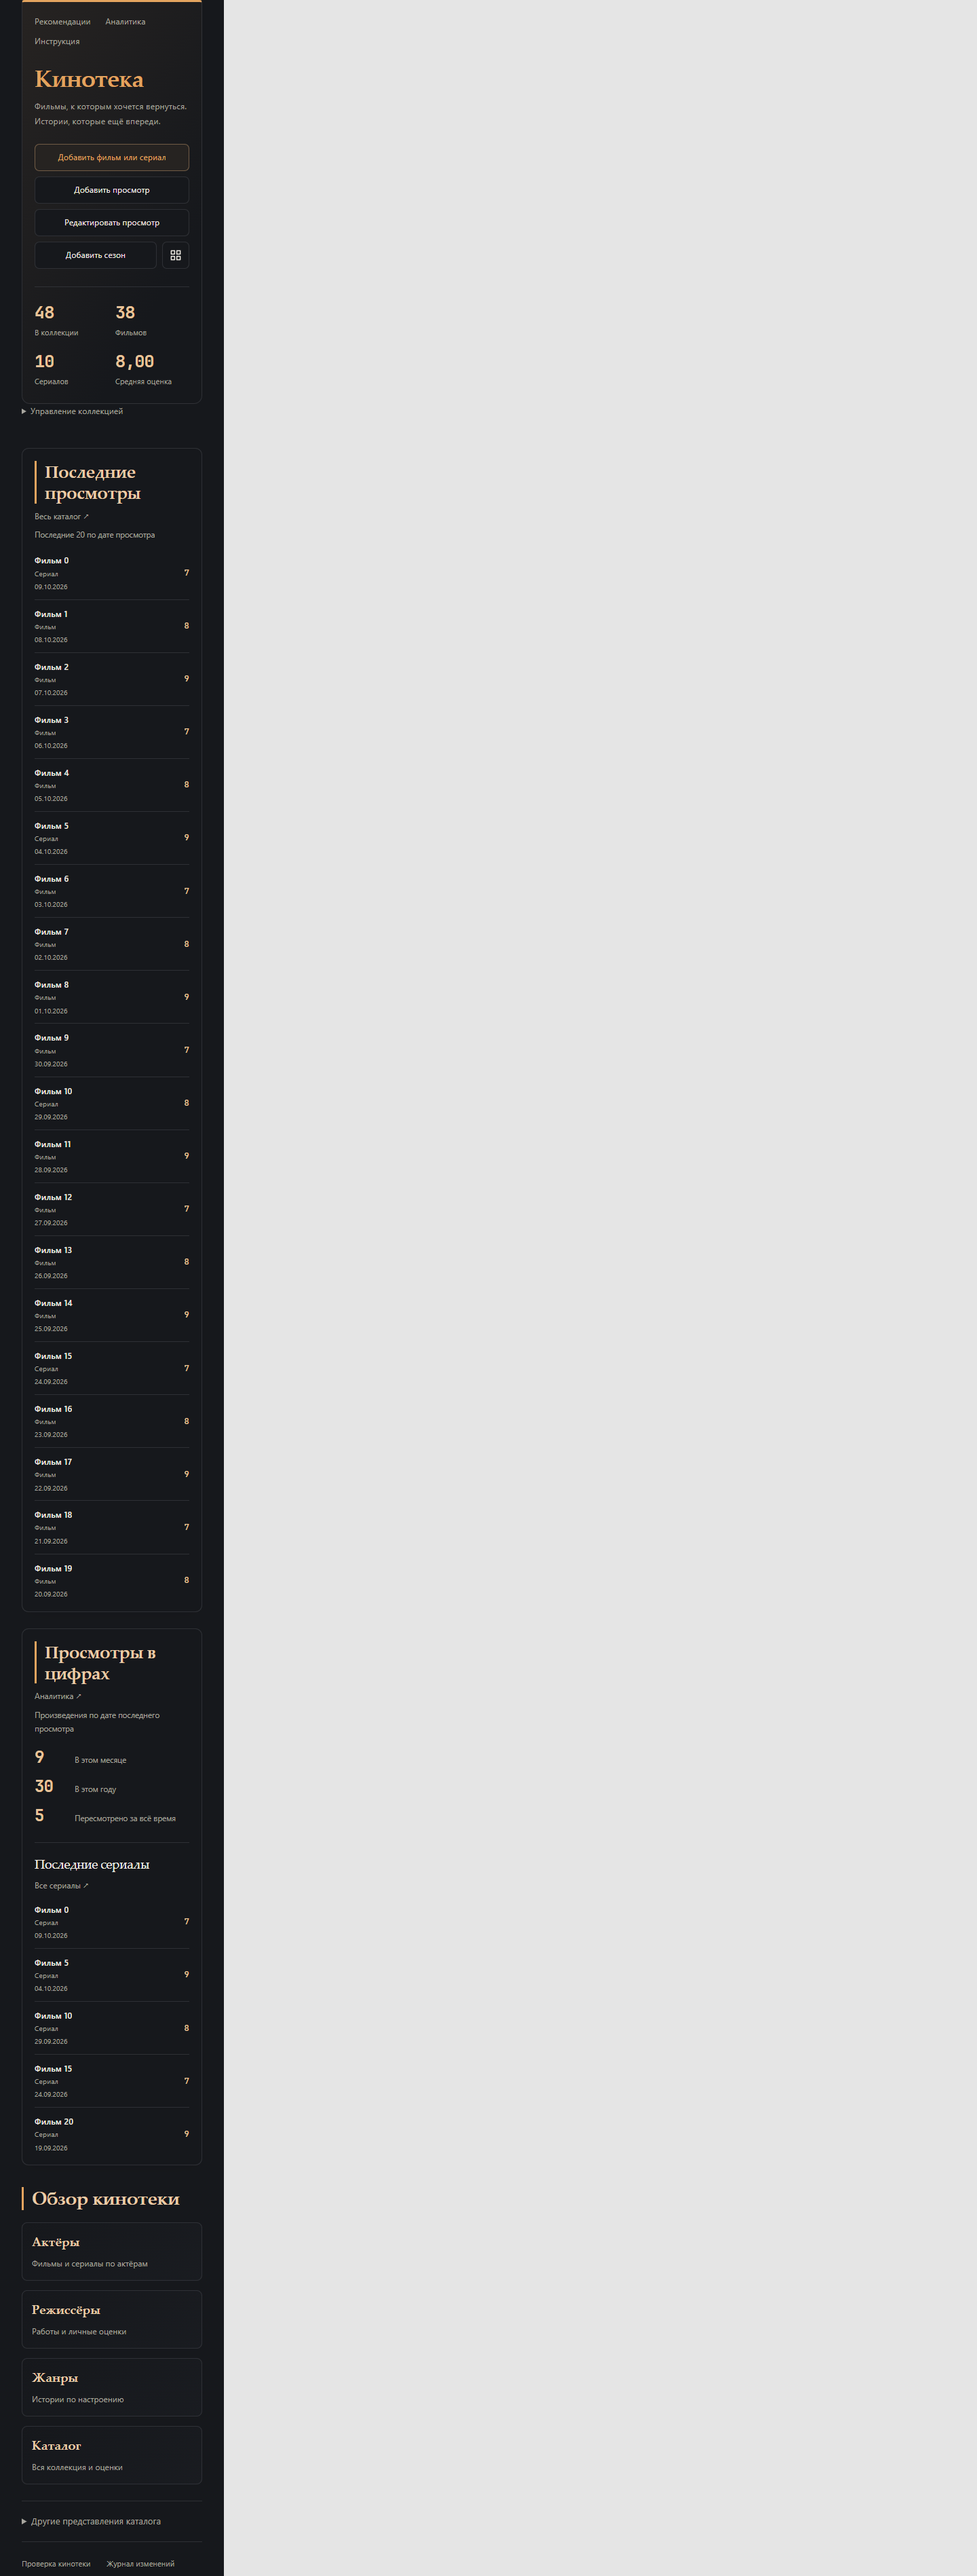
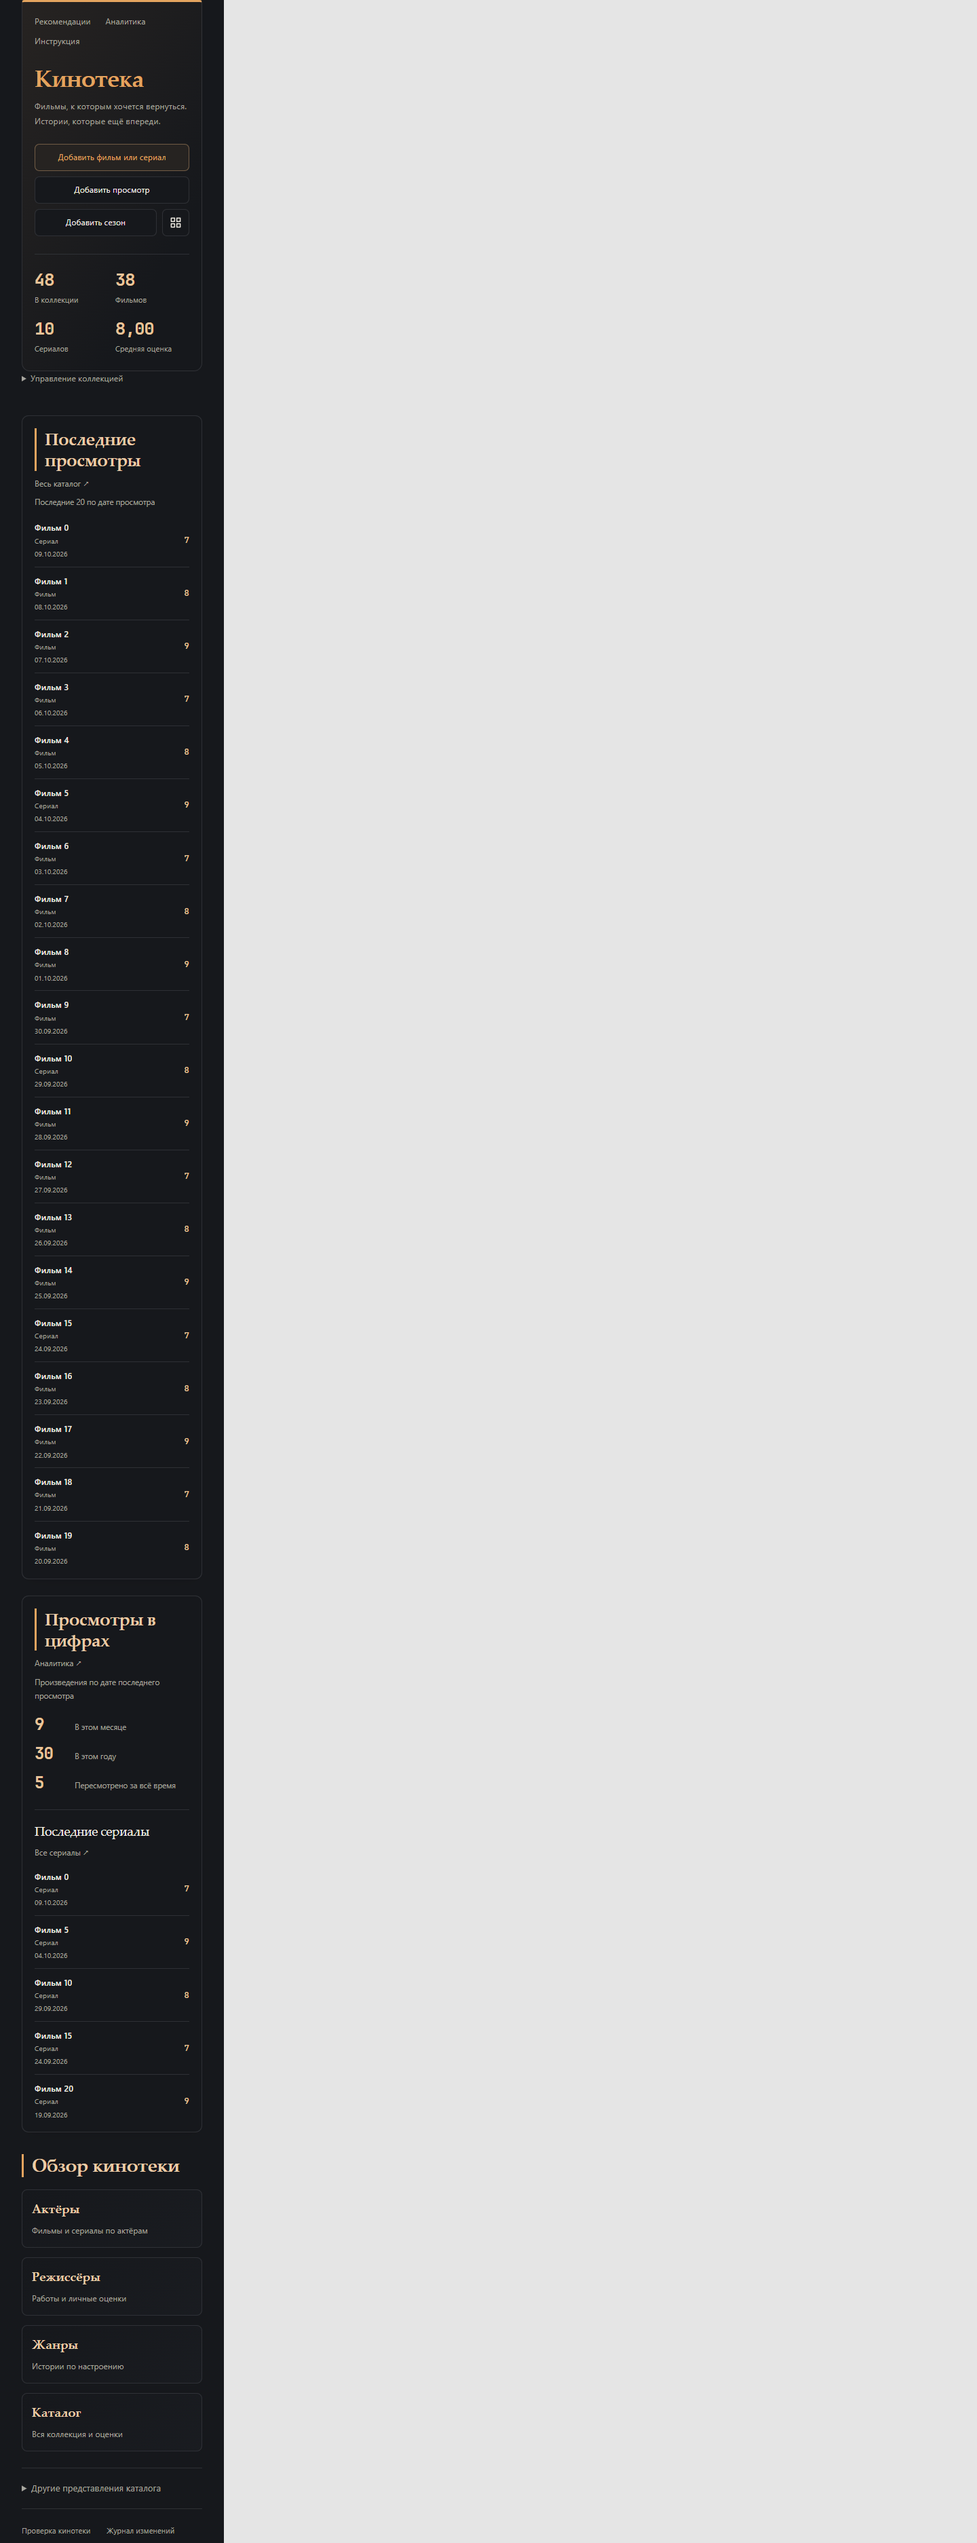
vault backup: 2026-10-09 22:13:24

Changed region(s): [[0.0312, 0.0312, 0.1875, 0.968]]

diff --git a/Кино/_system/kino_home.js b/Кино/_system/kino_home.js
@@ -145,9 +145,8 @@ module.exports = async ({ dv, app, obsidian = {} }) => {
         const identity = el(masthead, 'div', 'kino-home-identity');
         const heading = el(identity, 'div', 'kino-home-heading');
         el(heading, 'h1', 'kino-home-title', 'Кинотека');
-        el(heading, 'p', 'kino-home-subtitle', 'Фильмы, к которым хочется вернуться. Истории, которые ещё впереди.');
         const actions = el(identity, 'div', 'kino-home-actions');
-        for (const [text, choice, primary] of [['Добавить фильм или сериал', 'movie_imdb', true], ['Добавить просмотр', 'Добавить просмотр'], ['Редактировать просмотр', 'Редактировать просмотр'], ['Добавить сезон', 'Добавить сезон']]) command(actions, text, choice, 'kino-home-action' + (primary ? ' is-primary' : ''));
+        for (const [text, choice, primary] of [['Добавить фильм или сериал', 'movie_imdb', true], ['Добавить просмотр', 'Добавить просмотр'], ['Добавить сезон', 'Добавить сезон']]) command(actions, text, choice, 'kino-home-action' + (primary ? ' is-primary' : ''));
         const catalogue = internal(actions, 'Открыть каталог', 'Кино/_Кино.base#Карточки', 'kino-home-action is-icon');
         catalogue.setAttribute('aria-label', 'Открыть каталог'); catalogue.title = 'Открыть каталог';
         const icon = doc.createElementNS('http://www.w3.org/2000/svg', 'svg');
@@ -164,13 +163,13 @@ module.exports = async ({ dv, app, obsidian = {} }) => {
         }
         const management = el(root, 'details', 'kino-home-management'); el(management, 'summary', '', 'Управление коллекцией');
         const editActions = el(management, 'div', 'kino-home-actions');
-        for (const [text, choice] of [['Редактировать сезон', 'Редактировать сезон'], ['Пересобрать карточку', 'Пересобрать карточку'], ['Изменить франшизу', 'Франшиза']]) command(editActions, text, choice, 'kino-home-action');
+        for (const [text, choice] of [['Редактировать просмотр', 'Редактировать просмотр'], ['Редактировать сезон', 'Редактировать сезон'], ['Пересобрать карточку', 'Пересобрать карточку'], ['Изменить франшизу', 'Франшиза']]) command(editActions, text, choice, 'kino-home-action');
         function panel(title, cls, label, target) {
             const box = el(root, 'section', `kino-home-panel ${cls}`), head = el(box, 'div', 'kino-home-panel-head');
             el(head, 'h2', '', title); if (label) internal(head, label, target, 'kino-home-section-link');
             return { box, head, body: el(box, 'div', 'kino-home-widget') };
         }
-        const recent = panel('Последние просмотры', 'kino-home-recent', 'Весь каталог ↗', 'Кино/_Кино.base#Карточки');
+        const recent = panel('Последние просмотры', 'kino-home-recent', 'Весь каталог ↗', 'Кино/_Кино.base#Все');
         el(recent.head, 'p', 'kino-home-caption', 'Последние 20 по дате просмотра');
         const recentList = el(recent.body, 'div', 'kino-home-list');
         const reading = panel('Просмотры в цифрах', 'kino-home-reading', 'Аналитика ↗', 'Кино/_system/Аналитика прогнозов');

diff --git a/Кино/_system/Редизайн — прогресс.md b/Кино/_system/Редизайн — прогресс.md
@@ -5,6 +5,14 @@ obsidianUIMode: preview
 
 Обновлено: 08.10.2026. **Главная кинотеки по образцу Книг завершена.** Основной редизайн, компактные строки, шапка и выбор года тоже завершены; массовые миграции повторно не выполнять. При «продолжай» сначала прочитать этот файл и актуальный запрос.
 
+## Доработки главной 09.10.2026
+
+- По просьбе пользователя удалён единственный файл `Media/Без названия.md` — незаполненный черновик без даты просмотра. Связанные файлы не удалялись.
+- Из шапки главной удалён показатель «Просмотрено». Остались четыре: «В коллекции», «Фильмов», «Сериалов», «Средняя оценка». На широком экране — четыре колонки, на узком — две. Даты просмотра и статистика периодов сохранены.
+- Кнопка «Редактировать просмотр» перенесена из основных действий в раскрываемое «Управление коллекцией», перед редактированием сезона. Все семь прежних QuickAdd-действий доступны.
+- Обновлены `kino_home.js`, `kino-home.css` и ожидания двух существующих тестовых файлов. Проверено **10/10**: home-ui 9/9 и отдельный сценарий главной design-ui 1/1. Проверены адаптация, команды, обновление показателей и отсутствие лишнего счётчика; превью обновлены.
+- Снимок пяти затронутых файлов до изменений главной: `redesign-backups/home-remove-watched-20261009/before.zip`. **Оба запроса по главной завершены.** При старом открытом интерфейсе переоткрыть главную в режиме чтения.
+
 ## Дополнение 09.10.2026: режим чтения для новых страниц
 
 - **Завершено:** новые страницы, создаваемые командами кинотеки, получают `obsidianUIMode: preview` автоматически.
@@ -140,3 +148,7 @@ Bundled Node: `C:\Users\Mindwork\.cache\codex-runtimes\codex-primary-runtime\dep
 ## Правила продолжения
 
 После каждого завершённого этапа записывать изменённые файлы, выполненные проверки, ошибки и точный следующий шаг. Не считать незапущенные проверки пройденными. Не запускать массовое «безопасное исправление» данных как часть редизайна. Секреты и содержимое настроек ИИ не выводить в отчёты.
+
+- 09.10.2026: ссылка «Весь каталог ↗» в последних просмотрах ведёт в `Кино/_Кино.base#Все`; представление существует, синтаксис модуля проверен.
+
+- 09.10.2026: по просьбе пользователя удалена подпись под названием кинотеки — из `kino_home.js` и Markdown-версии `_index.md`.

diff --git a/Кино/_index.md b/Кино/_index.md
@@ -23,8 +23,6 @@ if (file) {
 
 # Кинотека
 
-Фильмы, к которым хочется вернуться. Истории, которые ещё впереди.
-
 [Добавить фильм или сериал](obsidian://quickadd?choice=movie_imdb) · [Добавить просмотр](obsidian://quickadd?choice=%D0%94%D0%BE%D0%B1%D0%B0%D0%B2%D0%B8%D1%82%D1%8C%20%D0%BF%D1%80%D0%BE%D1%81%D0%BC%D0%BE%D1%82%D1%80) · [Добавить сезон](obsidian://quickadd?choice=%D0%94%D0%BE%D0%B1%D0%B0%D0%B2%D0%B8%D1%82%D1%8C%20%D1%81%D0%B5%D0%B7%D0%BE%D0%BD)
 
 [[Кино/_Кино.base#Карточки|Вся коллекция]] · [[Кино/_system/Рекомендации|Рекомендации]] · [[Кино/_system/Аналитика прогнозов|Аналитика]] · [[Кино/_system/README|Инструкция]]
